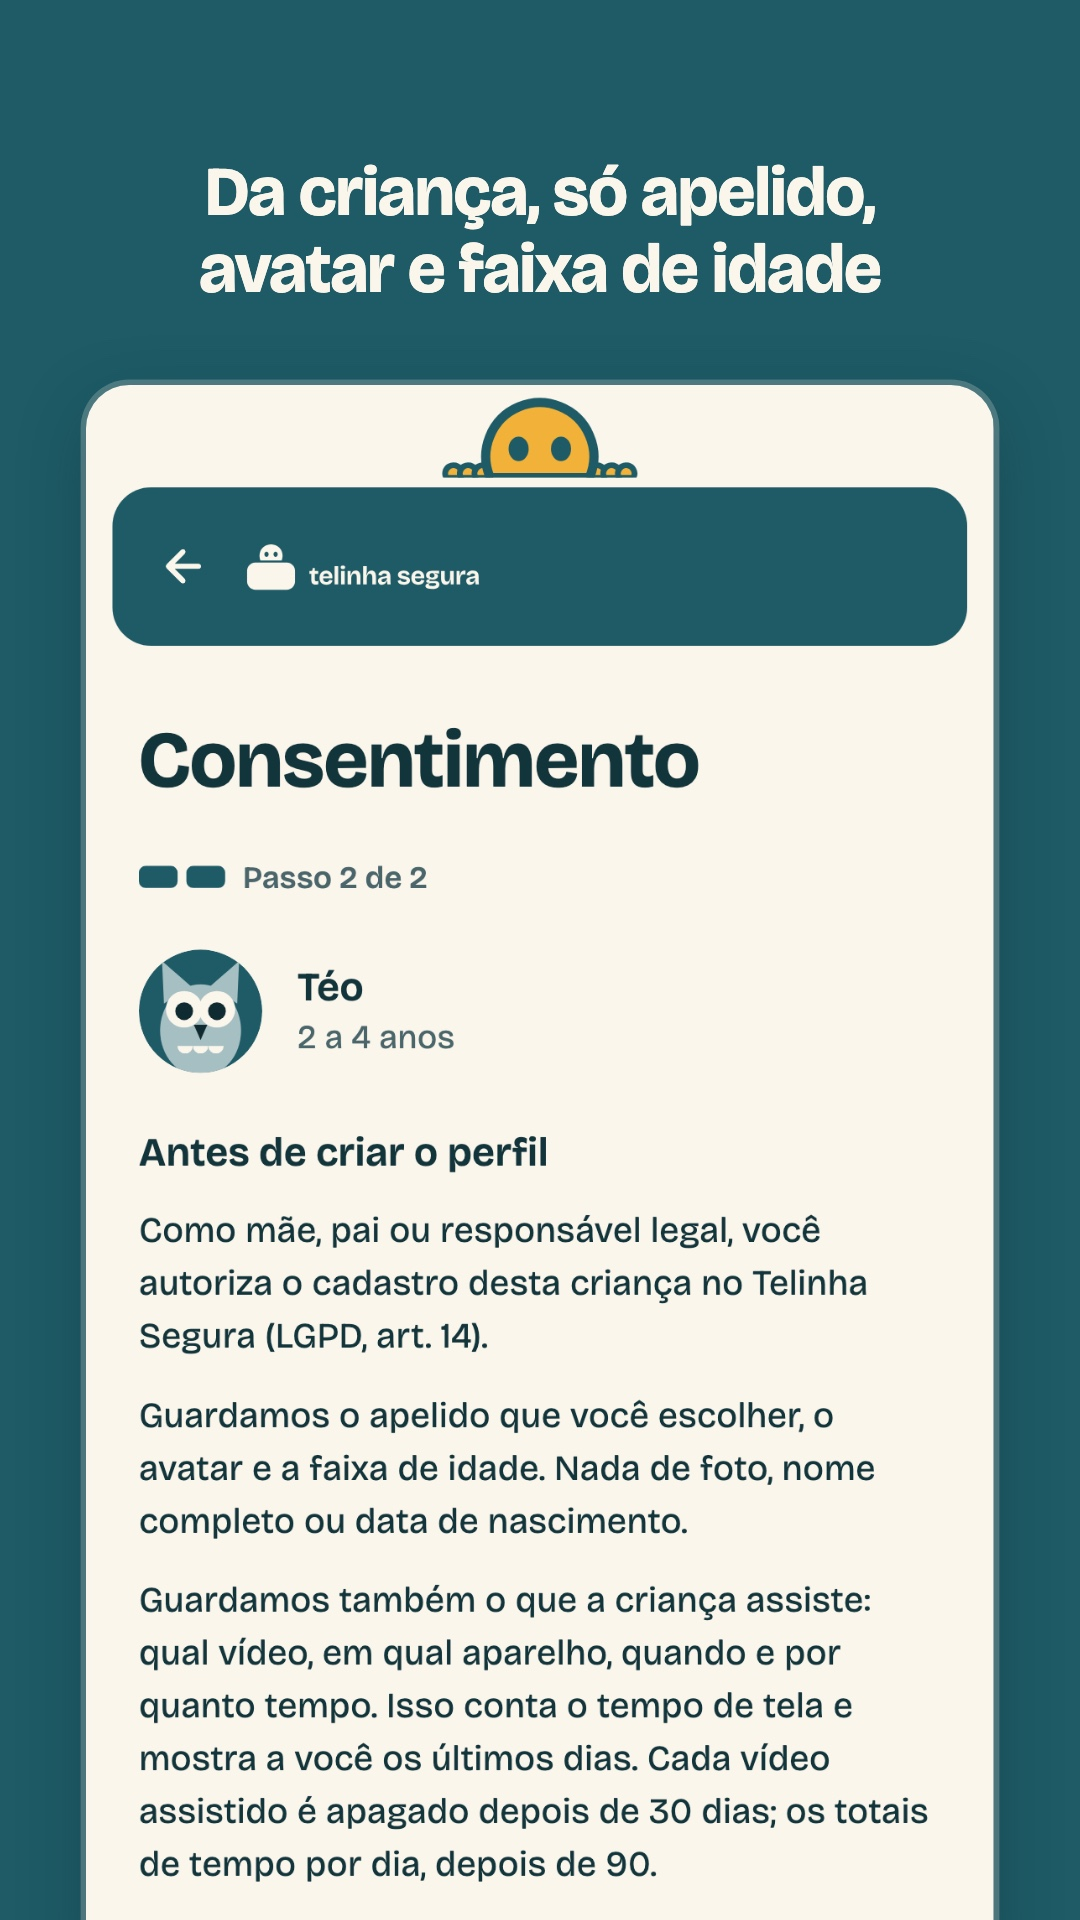
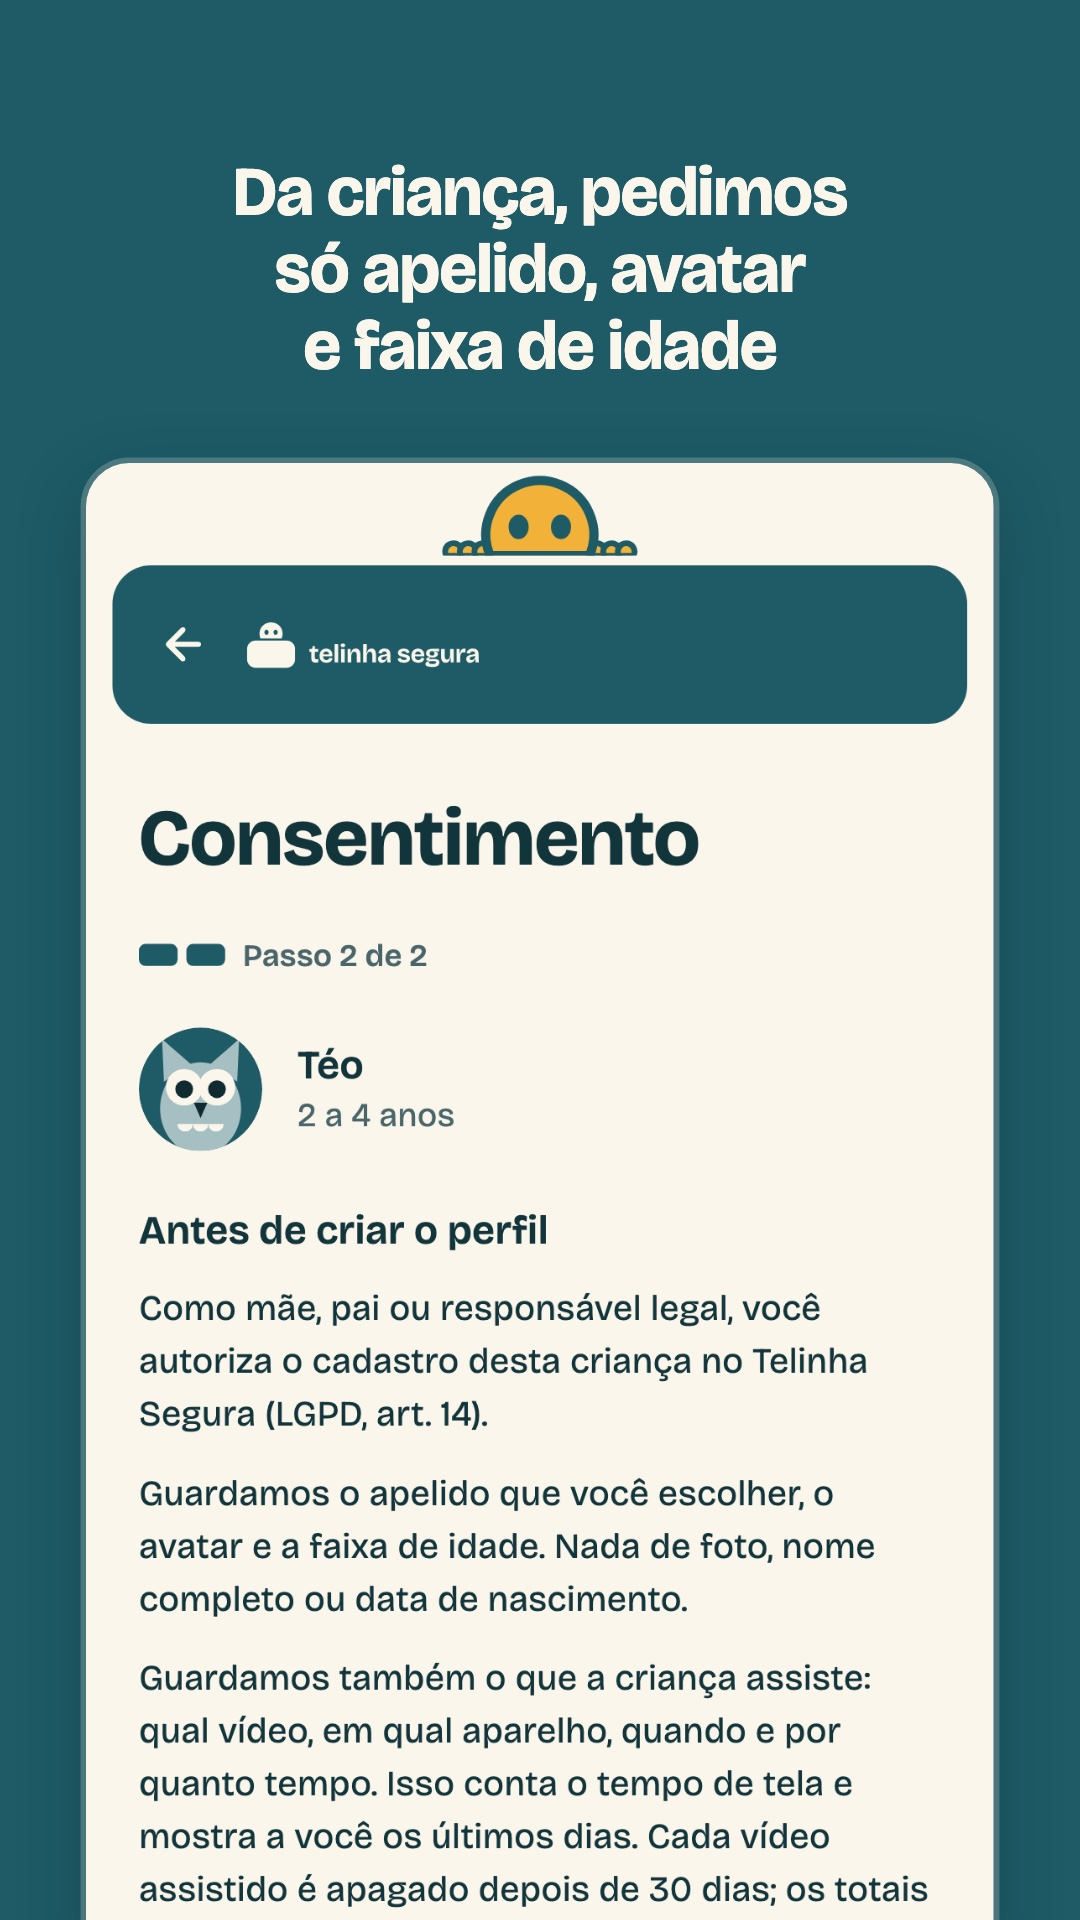
fix(app): Play tablet screenshots in 9:16, sharp crops and the frame 08 caption
Play takes screenshots only in a 9:16 or 16:9 shape, so the 10-inch
tablet set is 1440x2560, and the check requires that shape, the size and
at least four tablet images. Each capture is rendered as much denser as
its frame enlarges the crop, so the shown part keeps the device's pixel
density and text stays sharp on the tablet and the iPad. Frame 08 says
what is asked of the child: nickname, avatar and age band.

Changed region(s): [[0.0611, 0.0625, 0.9472, 1.0]]

diff --git a/app/test/store_screens/store_screens_test.dart b/app/test/store_screens/store_screens_test.dart
@@ -148,7 +148,13 @@ Future<void> capture(WidgetTester tester, Profile p, Frame f) async {
   }
   await tester.runAsync(() async {
     final layer = tester.binding.renderViews.first.debugLayer! as OffsetLayer;
-    final image = await layer.toImage(viewport, pixelRatio: p.dpr);
+    // The frame enlarges its crop to the card's width, so the capture is
+    // rendered that much denser: the shown part keeps at least the device's
+    // pixel density and its text stays sharp.
+    final image = await layer.toImage(
+      viewport,
+      pixelRatio: p.dpr / (crop.x1 - crop.x0),
+    );
     final bytes = await image.toByteData(format: ui.ImageByteFormat.png);
     final file = File('${outDir.path}/${p.name}/${f.number}.png')
       ..createSync(recursive: true);

diff --git a/app/store_screens/frame.html b/app/store_screens/frame.html
@@ -85,7 +85,8 @@
     const h = Number(q.get("h"));
     const [x0, y0, x1] = (q.get("crop") || "0,0,1").split(",").map(Number);
     // Tablets are squarer than phones: a narrower screen and a caption set
-    // in a narrower measure keep the same balance on the wider canvas.
+    // in a narrower measure keep the same balance on the wider canvas. The
+    // Play tablet set is 9:16 like the phones, so it takes the phone measures.
     const tablet = h / w < 1.7;
 
     const frame = document.querySelector(".frame");

diff --git a/tools/repoconfig/store_images_test.go b/tools/repoconfig/store_images_test.go
@@ -1,6 +1,7 @@
 package repoconfig
 
 import (
+	"fmt"
 	"image/jpeg"
 	"os"
 	"path/filepath"
@@ -13,13 +14,17 @@ import (
 type imageSet struct {
 	name, dir, pattern string
 	w, h, min, max     int
+	// Play takes screenshots only in a 9:16 or 16:9 shape, 1080 to 7680
+	// pixels on each side.
+	play bool
 }
 
 var imageSets = []imageSet{
-	{"Play phone", "app/fastlane/metadata/android/pt-BR/images/phoneScreenshots", `^(\d\d)\.jpg$`, 1080, 1920, 2, 8},
-	{"Play 10-inch tablet", "app/fastlane/metadata/android/pt-BR/images/tenInchScreenshots", `^(\d\d)\.jpg$`, 1600, 2560, 2, 8},
-	{"App Store iPhone 6.1-inch", "app/fastlane/screenshots/ios/pt-BR", `^(\d\d)_iphone61\.jpg$`, 1179, 2556, 1, 10},
-	{"App Store iPad 13-inch", "app/fastlane/screenshots/ios/pt-BR", `^(\d\d)_ipad13\.jpg$`, 2064, 2752, 1, 10},
+	{"Play phone", "app/fastlane/metadata/android/pt-BR/images/phoneScreenshots", `^(\d\d)\.jpg$`, 1080, 1920, 2, 8, true},
+	// Play shows an app on tablets only with at least four tablet images.
+	{"Play 10-inch tablet", "app/fastlane/metadata/android/pt-BR/images/tenInchScreenshots", `^(\d\d)\.jpg$`, 1440, 2560, 4, 8, true},
+	{"App Store iPhone 6.1-inch", "app/fastlane/screenshots/ios/pt-BR", `^(\d\d)_iphone61\.jpg$`, 1179, 2556, 1, 10, false},
+	{"App Store iPad 13-inch", "app/fastlane/screenshots/ios/pt-BR", `^(\d\d)_ipad13\.jpg$`, 2064, 2752, 1, 10, false},
 }
 
 func frameNumbers(t *testing.T, s imageSet) []string {
@@ -69,8 +74,27 @@ func TestStoreScreenshotsHaveTheStoreSizes(t *testing.T) {
 			if cfg.Width != s.w || cfg.Height != s.h {
 				t.Errorf("%s/%s is %dx%d, want %dx%d", s.name, e.Name(), cfg.Width, cfg.Height, s.w, s.h)
 			}
+			if s.play {
+				if msg := playShapeProblem(cfg.Width, cfg.Height); msg != "" {
+					t.Errorf("%s/%s: %s", s.name, e.Name(), msg)
+				}
+			}
 		}
 	}
+}
+
+// playShapeProblem says why Play would refuse a screenshot of this size, or
+// returns "" when it takes it.
+func playShapeProblem(w, h int) string {
+	for _, side := range []int{w, h} {
+		if side < 1080 || side > 7680 {
+			return fmt.Sprintf("%dx%d: Play takes 1080 to 7680 pixels per side", w, h)
+		}
+	}
+	if w*16 != h*9 && w*9 != h*16 {
+		return fmt.Sprintf("%dx%d: Play takes only 9:16 or 16:9", w, h)
+	}
+	return ""
 }
 
 // deliver uploads every image in the App Store folder, so a stray file
